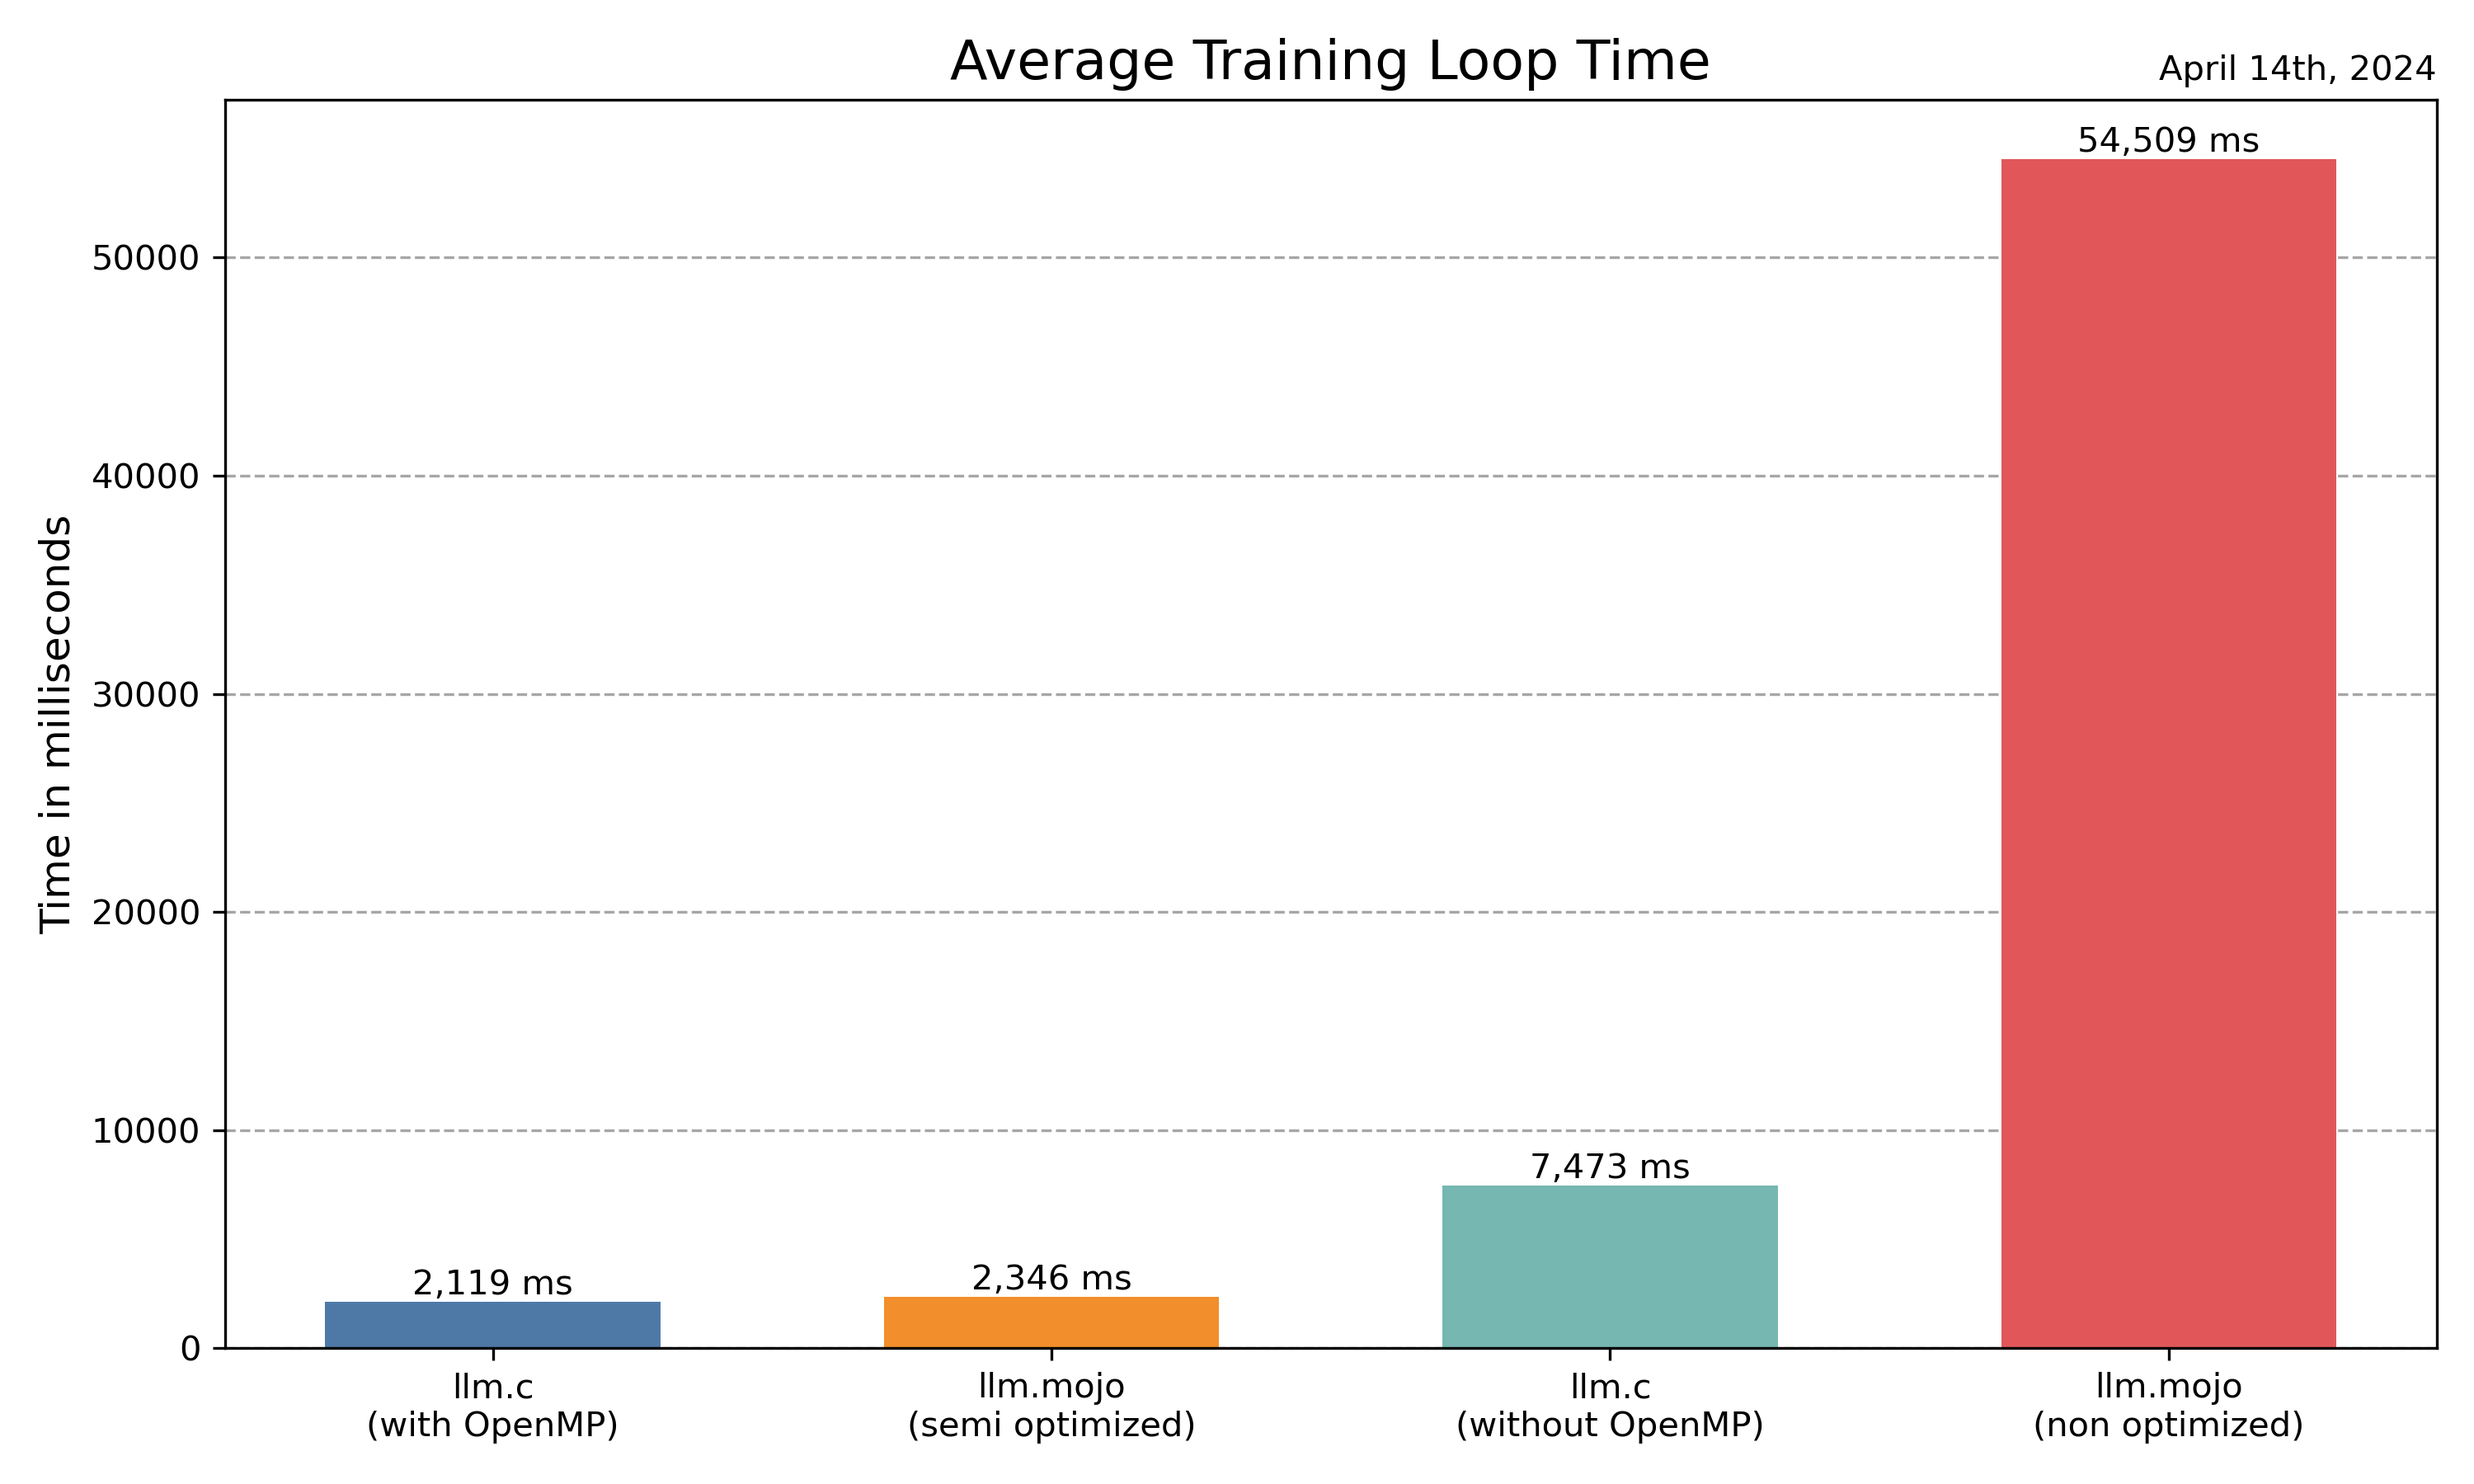
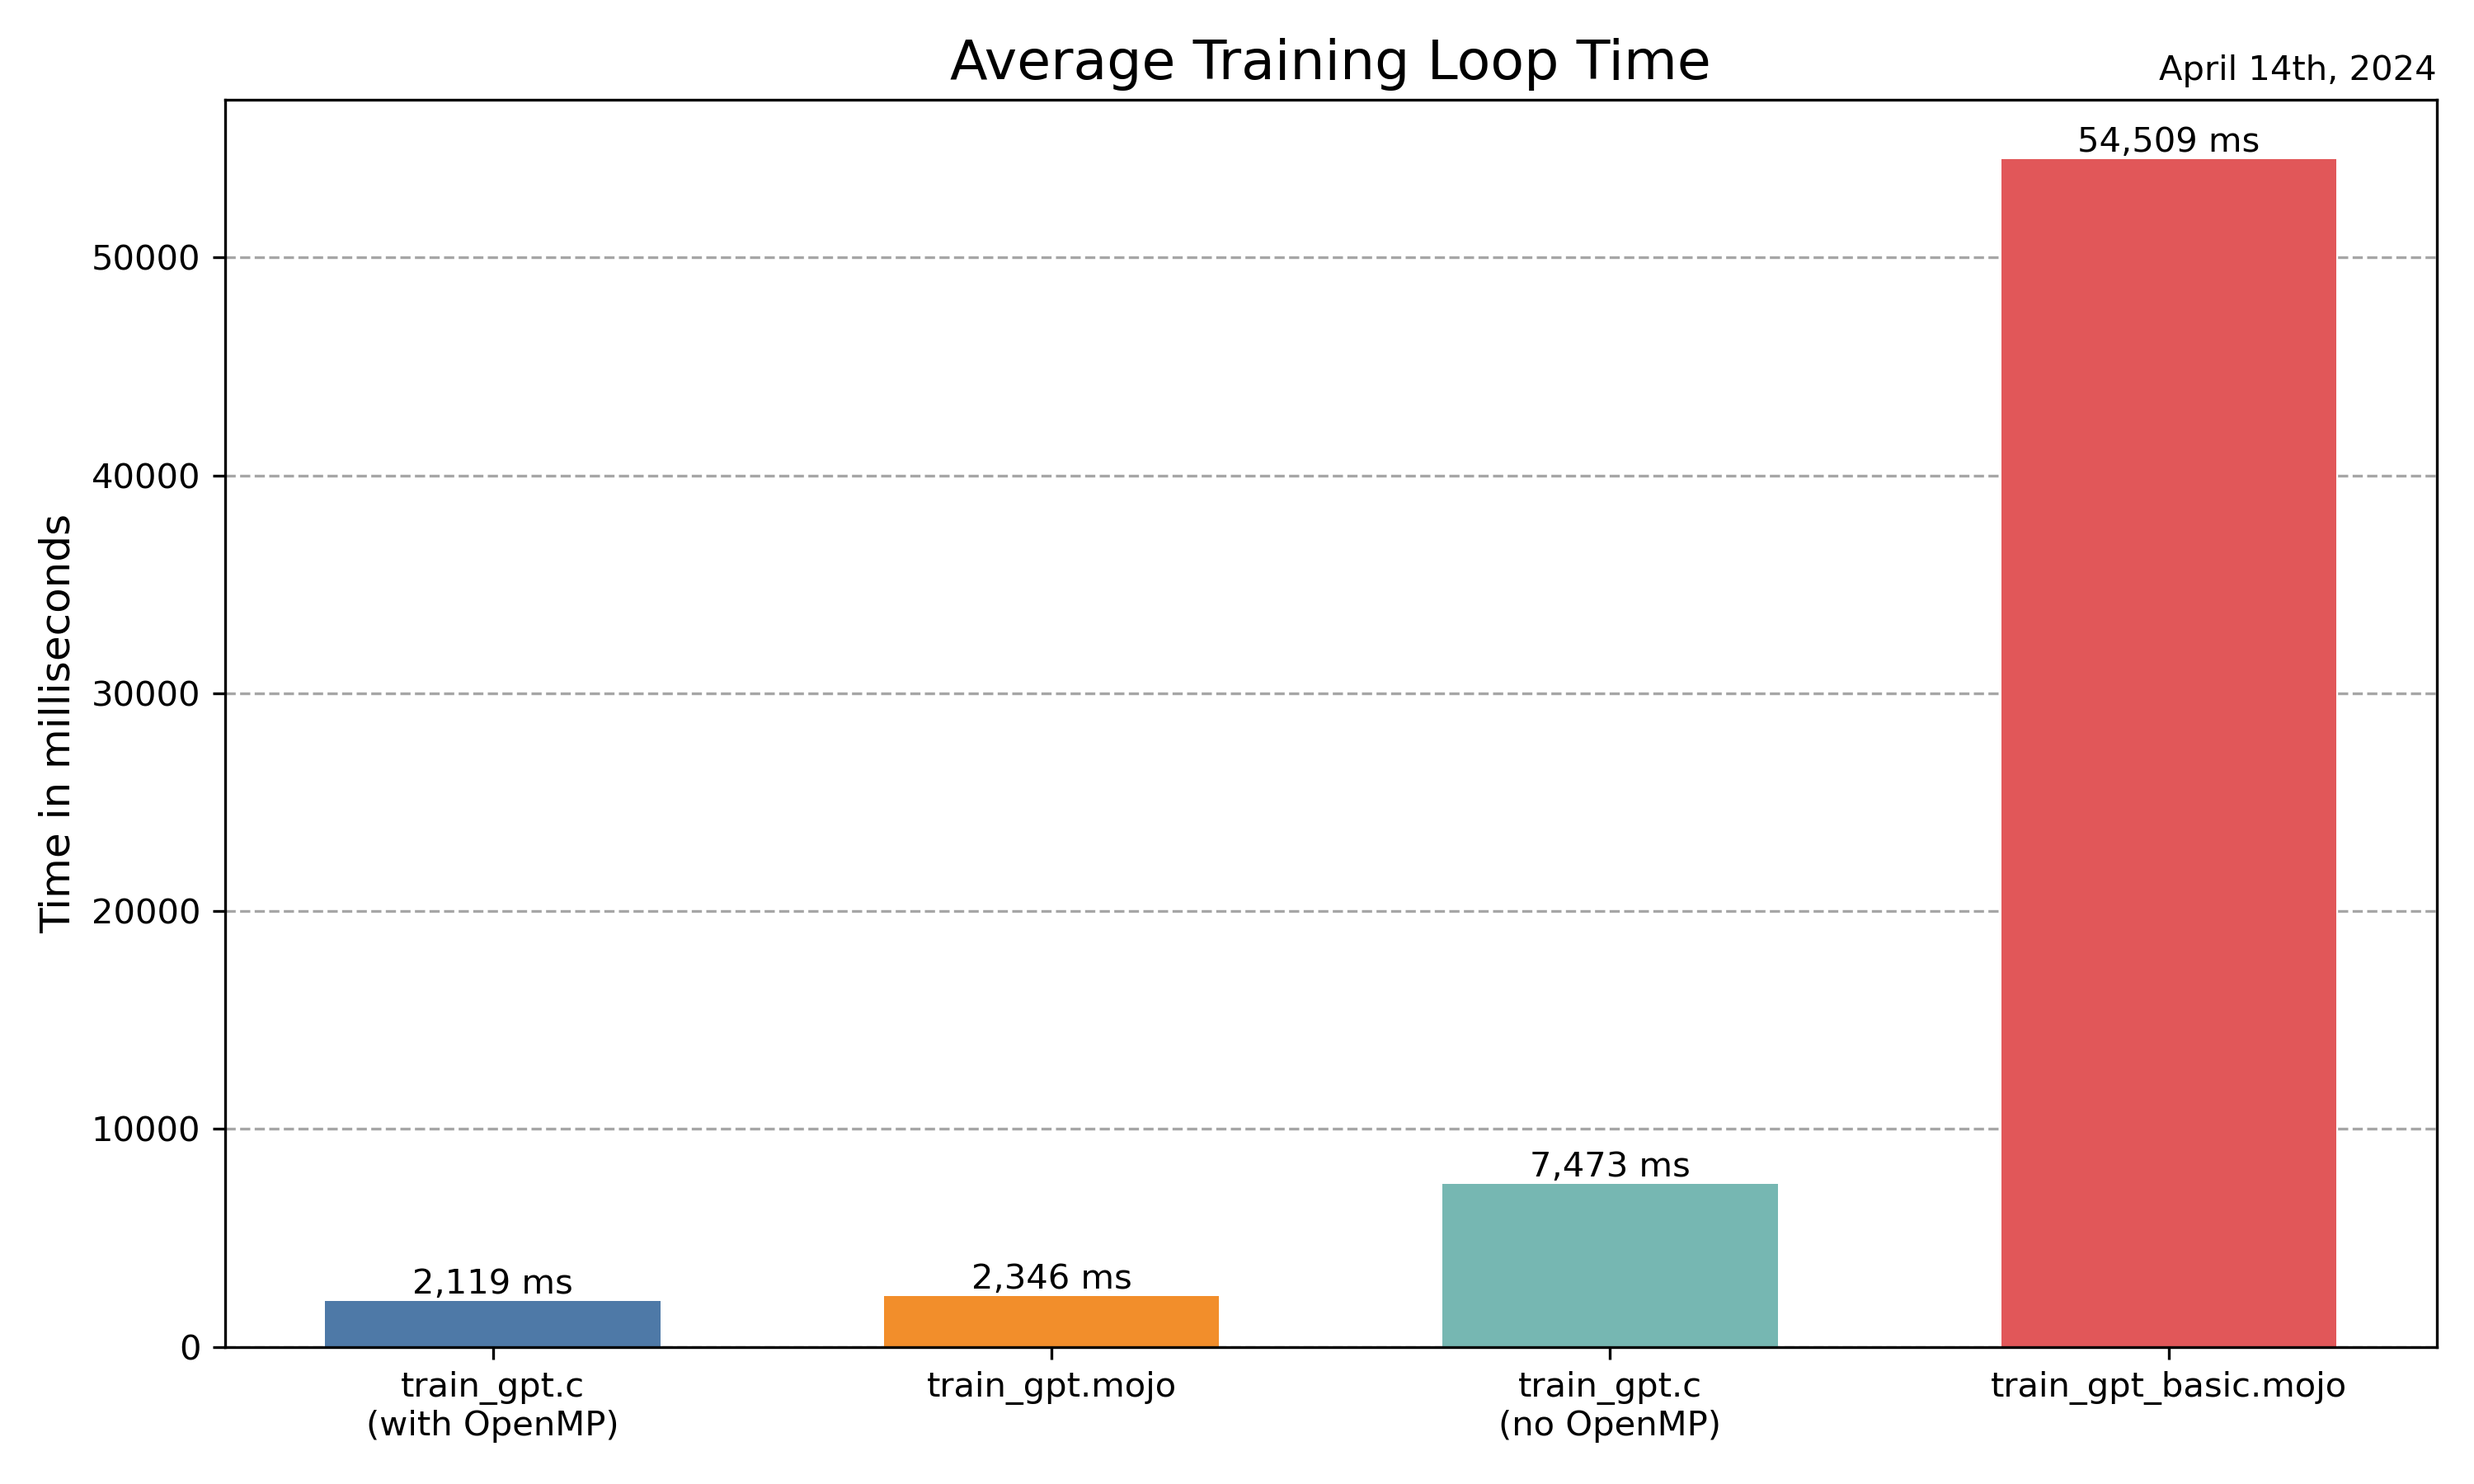
update benchmark info

diff --git a/README.md b/README.md
@@ -20,10 +20,10 @@ Preliminary benchmark results:
 
 | Implementation             | Average Training Loop Time |
 |----------------------------|----------------------------|
-| llm.c (with OpenMP)        | 2119 ms                    |
-| llm.mojo (semi optimized)  | 2346 ms                    |
-| llm.c (without OpenMP)     | 7473 ms                    |
-| llm.mojo (non-optimized)   | 54509 ms                   |
+| train_gpt.c (with OpenMP)  | 2119 ms                    |
+| train_gpt.mojo             | 2346 ms                    |
+| train_gpt.c  (no OpenMP)   | 7473 ms                    |
+| train_gpt_basic.mojo       | 54509 ms                   |
 
 !['Training Loop Times'](imgs/training_loop_times_chart.png)
 
